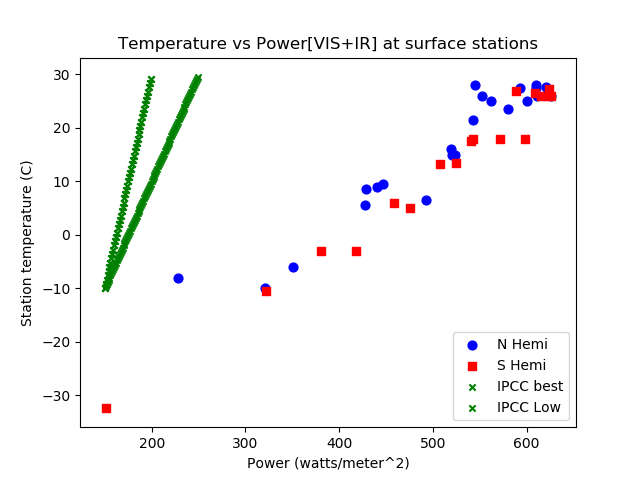
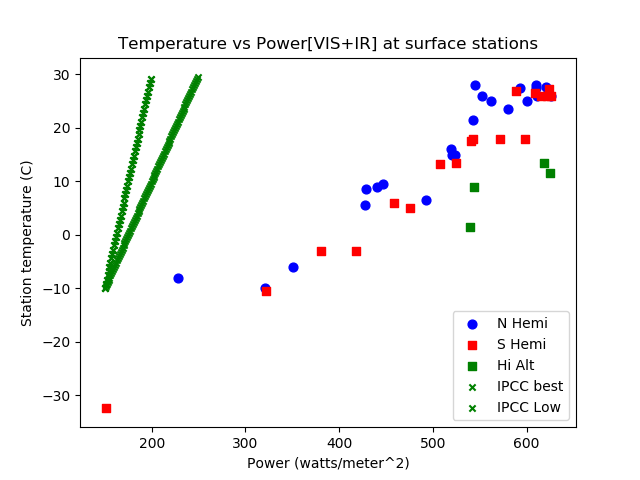
two powers + HA

diff --git a/clisen.py b/clisen.py
@@ -42,11 +42,11 @@ def global_power_check():
   widths = [5.0, 10.0, 10.0, 10.0, 10.0, 10.0, 10.0, 10.0, 10.0, 5.0]
   for ix in range(len(angles)):
      latchk = angles[ix] + (widths[ix]/2.0)
-     tot, vis, ir = rawPower(latchk)
+     tot, vis, ir, ab  = rawPower(latchk)
      areas.append(area_by_latt_band(angles[ix], widths[ix]))
      VIS_power += areas[ix] * vis
      IR_power +=  areas[ix] * ir
-     tot, vis, ir = rawPower(-latchk)
+     tot, vis, ir, ab = rawPower(-latchk)
      VIS_power += areas[ix] * vis
      IR_power +=  areas[ix] * ir     
   areas = np.array(areas)
@@ -76,7 +76,7 @@ def rawPower(lat, land= 0.5, sea=0.5):
   abloss = IR_abs(lat)
   VIS = ((P*(1-refloss))- abloss)  * (1-albbylat(lat))
   IR = IR_down(lat)
-  return VIS + IR, VIS, IR
+  return VIS + IR, VIS, IR, abloss
   
 class climSensDataset():
   def __init__(self, fname):
@@ -88,15 +88,17 @@ class climSensDataset():
 #    self.Power = df.PowerA
     self.GISStemp = df.GISStemp
     self.gt = np.array(self.GISStemp)
-    self.truePower = []; self.Power =[]
+    self.Power0 = []; self.Power =[]
     for ix in range(len(self.Lattitude)):
-      tot, vis, ir = rawPower(self.Lattitude[ix])
+      tot, vis, ir, ab = rawPower(self.Lattitude[ix])
       self.Power.append(tot)
+      self.Power0.append(vis + ab)
       #self.truePower.append(self.Power[ix] * (1-albbylat(self.Lattitude[ix])))
 
 
 nh = climSensDataset('NH_dataset.csv')
 sh = climSensDataset('SH_dataset.csv')
+ha = climSensDataset('HA_dataset.csv')
 #print nh.Names
 #print nh.truePower
 #print nh.GISStemp
@@ -110,6 +112,7 @@ plt.xlabel('Power (watts/meter^2)')
 plt.ylabel('Station temperature (C)')
 plt.scatter(nh.Power,nh.gt, s=40, c='b', marker= 'o', label='N Hemi')
 plt.scatter(sh.Power, sh.gt,s=40,  c='r', marker= 's', label = 'S Hemi')
+plt.scatter(ha.Power, ha.gt,s=40,  c='g', marker= 's', label = 'Hi Alt')
 plt.scatter(ipccP, ipccT, s = 20, c='g', marker = 'x', label= 'IPCC best')
 
 for ix in range(100):
@@ -129,6 +132,14 @@ print('NH sens:' + str(fit))
 
 fit = np.polyfit(sh.Power, sh.GISStemp, 1)
 print('SH sens:' + str(fit))
+
+print('sensitivites to VIS + AB  power')
+fit = np.polyfit(nh.Power0, nh.GISStemp, 1)
+print('NH sens:' + str(fit))
+
+fit = np.polyfit(sh.Power0, sh.GISStemp, 1)
+print('SH sens:' + str(fit))
+
 
 
 plt.show()

diff --git a/README.md b/README.md
@@ -6,7 +6,7 @@ We will stipulate as uncontroversial facts that increased carbon dioxide in the 
 
 Power = 5.35 ln(c/C0) in watts per meter squared
 
-Now this is not some universal, foundational equation of physics, like conservation of energy, black body radiation and so on.  Clearly there are big problems here if C0, the initial CO2 concentration, is zero. The formula is derived from radiation models which must incorporate assumptions, models, observations about the actions of other (highly non-linear) processes in the atmosphere. This [series](https://scienceofdoom.com/roadmap/co2/) of articles covers the whole topic really well.  The units of power flux are watts per meter squared averaged over a year such that they are consistent with the [Trenberth diagram.](https://scied.ucar.edu/radiation-budget-diagram-earth-atmosphere) Note that the following analysis uses local yearly averages paired with average temperature whereas Trenberth values are global averages.  
+Now this is not some universal, foundational equation of physics, like conservation of energy, black body radiation and so on.  Clearly there are big problems here if C0, the initial CO2 concentration, is zero. The formula is derived from radiation models which must incorporate assumptions, models, observations about the actions of other (highly non-linear) processes in the atmosphere. This [series](https://scienceofdoom.com/roadmap/co2/) of articles covers the whole topic really well.  The units of power flux are watts per meter squared averaged over a year such that they are consistent with the [Trenberth diagram.](https://scied.ucar.edu/radiation-budget-diagram-earth-atmosphere) Note that the following analysis uses local yearly average powers paired with average temperature whereas Trenberth values are global averages.  
 
 The  interesting and more controversial question is what temperature rise may be expected from this increased radiant heat load.  This git repo implements a simple method to measure climate  sensitivity directly across datasets that contain radiant heat and average surface temperatures at selected sites across both northern and southern hemisphere. The resulting sensitivities range from 0.11 to 0.13 degrees K per watt per meter squared.  In contrast, IPCC claims  that sensitivity is 0.8 +/- 0.4 K per watt per meter squared. Here is an example plot of the data:
 
@@ -15,23 +15,28 @@ The  interesting and more controversial question is what temperature rise may be
 Our figure 1 graph, shows GISS station temperature vs. input power. Temperature, latitude, longitude, and elevation data comes [from NASA](https://data.giss.nasa.gov/gistemp/stdata/).  The top of atmosphere (TOA) solar input power is calculated from the tables provided [here](http://applet-magic.com/insolation.htm).  The python program clisen.py
 
 1. Looks up TOA solar power and corrects for cloud reflection and surface reflection.
-2. Calcualtes IR power and adds to solar power
+2. Calculates IR power and adds to solar power.
 3. calculates separate sensitivities for northern and southern hemisphere using total power VIS + IR.
 
-The following table presents the measured temperature sensitivities of combined visible (solar)+ IR (GHG) power. The graph illustrates the response we actually see on earth, about 38 degrees C over 300 watts/m2 flux increase. In comparison IPCC low-end and best estimates of climate sensitivity rise 40 and 80 degrees for 100 watts/m2 flux increase.  One can argue IPPC low-end response is seen from poles to maybe the point where ice melts.  But then the temperate and tropic zones short out the signal with rain and clouds.
+The following table presents the measured temperature sensitivities with two definitions of input power:
 
-  Hemisphere|Sensitivity|units|
- --|------|---|
- N|0.111|K / (w/m^2)|
- S|0.126|K / (w/m^2)|
+1. Original calc was All visible power not reflected,i.e. VIS power absorbed was included in total.
+2. Current method removes VIS absorbed and adds in IR heating power down.
 
-One great advantage of this method is that there is plenty of signal here.  Temperature ranges across 60 degrees K and power ranges over 250 watts per meter squared. Disputes over small adjustments in temperature, common when looking at time series temperature data to tease out the magnitude of CO2 driven warming,  will not have much effect on these measured sensitivities.  Reviewers or critics might come forward with some valid criticisms of how power numbers are calculated.
+The graph illustrates the response we actually see on earth, about 38 degrees C over 300 watts/m2 flux increase. In comparison IPCC low-end and best estimates of climate sensitivity rise 40 and 80 degrees for 100 watts/m2 flux increase.  One can argue IPPC low-end response is seen from poles to maybe the point where ice melts.  But then the temperate and tropic zones short out the signal with rain, wind, and clouds.
 
-With new release power is calculated as the sum of VIS + IR power.  As I said before this was added 'Adding in downward IR is likely to reduce sensitivity since inevitably there is more IR heating in the hot, wet tropics than the cold, dry poles.' This improvement resulted in sensitivities just over half of VIS only sensitivities.  The albedo correction, surface reflection in Trenberth diagram, is based on latitude from this [table](http://www.climatedata.info/forcing/albedo/).  I would like to replace it with something that uses, say ISCCP satellite data or the mix of land types and land to sea ratios in the region of influence around a given station.  The reflection correction is based on[ NASA numbers](https://www.giss.nasa.gov/research/briefs/rossow_01/distrib.html) and again could benefit by satellite or other local data. IR power lookup via [science of doom.](https://scienceofdoom.com/2010/07/17/the-amazing-case-of-back-radiation/)
+  Hemisphere|VIS+IR|VIS+Ab|units|
+ --|------|---|----|
+ N|0.111|0.169|K / (w/m^2)|
+ S|0.126|0.201|K / (w/m^2)|
+
+One great advantage of this method is that there is plenty of signal here.  Temperature ranges across 60 degrees K and power ranges over 400 watts per meter squared. Disputes over small adjustments in temperature, common when looking at time series temperature data to tease out the magnitude of CO2 driven warming,  will not have much effect on these measured sensitivities.  Reviewers or critics might come forward with some valid criticisms of how power numbers are calculated.
+
+With first release power is calculated as the sum of VIS + IR power.  As I said before this was added 'Adding in downward IR is likely to reduce sensitivity since inevitably there is more IR heating in the hot, wet tropics than the cold, dry poles.' This improvement resulted in sensitivities just over half of VIS only sensitivities.  The albedo correction, surface reflection in Trenberth diagram, is based on latitude from this [table](http://www.climatedata.info/forcing/albedo/).  I would like to replace it with something that uses, say ISCCP satellite data or the mix of land types and land to sea ratios in the region of influence around a given station.  The reflection correction is based on[ NASA numbers](https://www.giss.nasa.gov/research/briefs/rossow_01/distrib.html) and again could benefit by satellite or other local data. IR power lookup via [science of doom.](https://scienceofdoom.com/2010/07/17/the-amazing-case-of-back-radiation/)
 
 What can account for the differences between sensitivities obtained here and the IPCC numbers, which are famously derived from models with significant, amplifying feedbacks on CO2 driven warming?  It is uncontroversial that the climate systems has potential feedbacks that are positive, i.e. amplify CO2 driven warming, and also negative, attenuating feedbacks that counteract CO2 driven warming. The controversy is over what the relative magnitudes of these feedbacks are.  Another great advantage of this method is that all feedbacks are necessarily integrated and superposed into the measured data. Arguments that CO2 IR warming carries some special amplifying inducing properties that raw solar and H2O IR does not will be a hard sell to people with solid understandings of basic physics.    
 
-The station data is summarized in csv files for each hemisphere. Clisen.py uses [pandas](https://pandas.pydata.org) to read in the files.  pdfs of each station historical record of temperature are archived in the tempdata folder.
+The station data is summarized in csv files for each hemisphere plus the High altitude dataset.. Clisen.py uses [pandas](https://pandas.pydata.org) to read in the files. Note that the power data in the files is not used.  Power is calculated based on latitude. pdfs of each station historical record of temperature are archived in the tempdata folder.
 
 I should note that stations were selected to cover as wide a range of the globe as possible with a strong bias towards stations at or near sea level, given the constraints of NASA GISS data coverage. The most outstanding exception to this criteria is the Anmundsen Scott station at the South Pole at an elevation of 2835 meters elevation.  This station's temperature is corrected back to sea level using lapse rate of ~2C per 300 meters.  Next highest elevation station is Bangalore at 920 meters. Its GISS temperature is not corrected.
 
